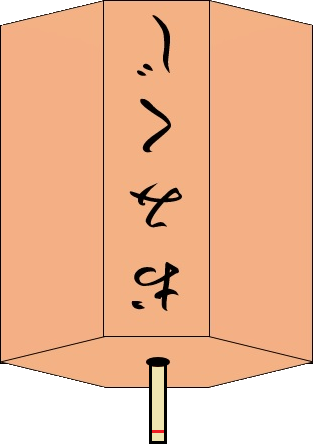
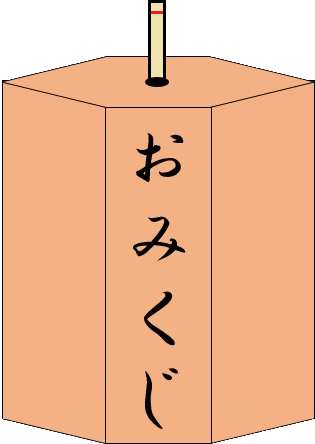
おみくじ　画像切り替え、運勢画像追加

diff --git a/omikuji/omikuji.html b/omikuji/omikuji.html
@@ -24,10 +24,14 @@
       <div class="container">
          <div class="row">
             <div class="col-md-2"></div>
+            <image id="imgUnsei" src="../images/unsei.jpg">
             <div class="col-md-8 text-center">
-               <!--おみくじ画像　クリックで判定-->
-               <image id="imgOmikuji" src="../images/omikuji.jpg">
-                <image id="imgKannushi" src="../images/kannushi.jpg">
+               
+               
+                <!--おみくじ画像　クリックで判定-->
+               <image id="imgOmikuji" src="../images/omikuji.jpg" onclick="start()">
+               <image id="imgKannushi" src="../images/kannushi.jpg">
+
                <!-- 結果 -->
                <div id="results">
 	               <p><span id="omikujiResult" class="label label-danger"></span></p>

diff --git a/omikuji/omikuji.js b/omikuji/omikuji.js
@@ -99,11 +99,18 @@ function showResult(){
 
 
 $(function(){
-	$('#imgOmikuji').on('click',function(){
+	$('#imgOmikuji').hover(function(){
 		$('#imgOmikuji').addClass('imgAnime');
-		//$('#imgOmkuji').removeClass('imgAnime');
-		//$('#imgOmikuji').attr('src' ,'../images/omikuji_after.jpg');
-		getOmikuji();
+
+		
 	});
 });
+
+function start(){
+	$('#imgOmikuji').attr('src' ,'../images/omikuji_after.jpg');
+	$('#imgOmkuji').attr('onclick','');
+	//$('#imgOmikuji').html('<image src="../images/omikuji_after.jpg">');
+	getOmikuji();
+}
+
 
